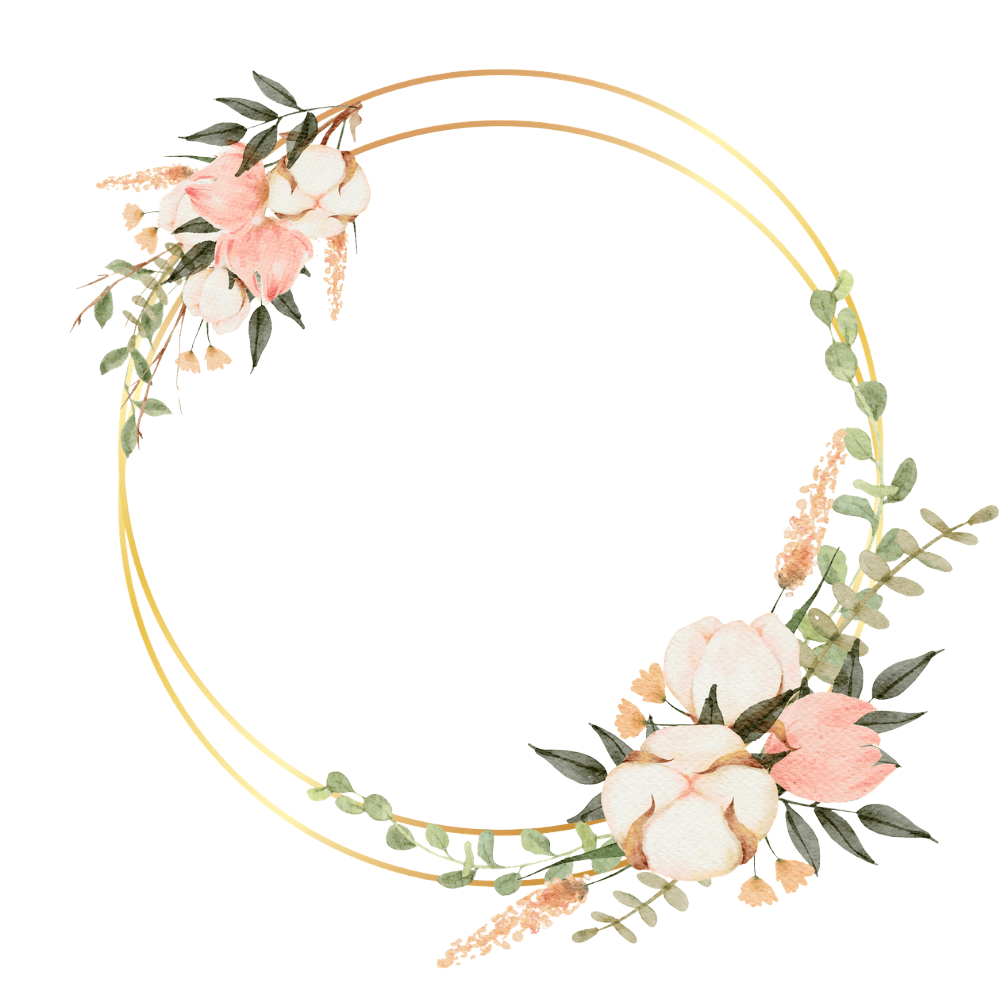
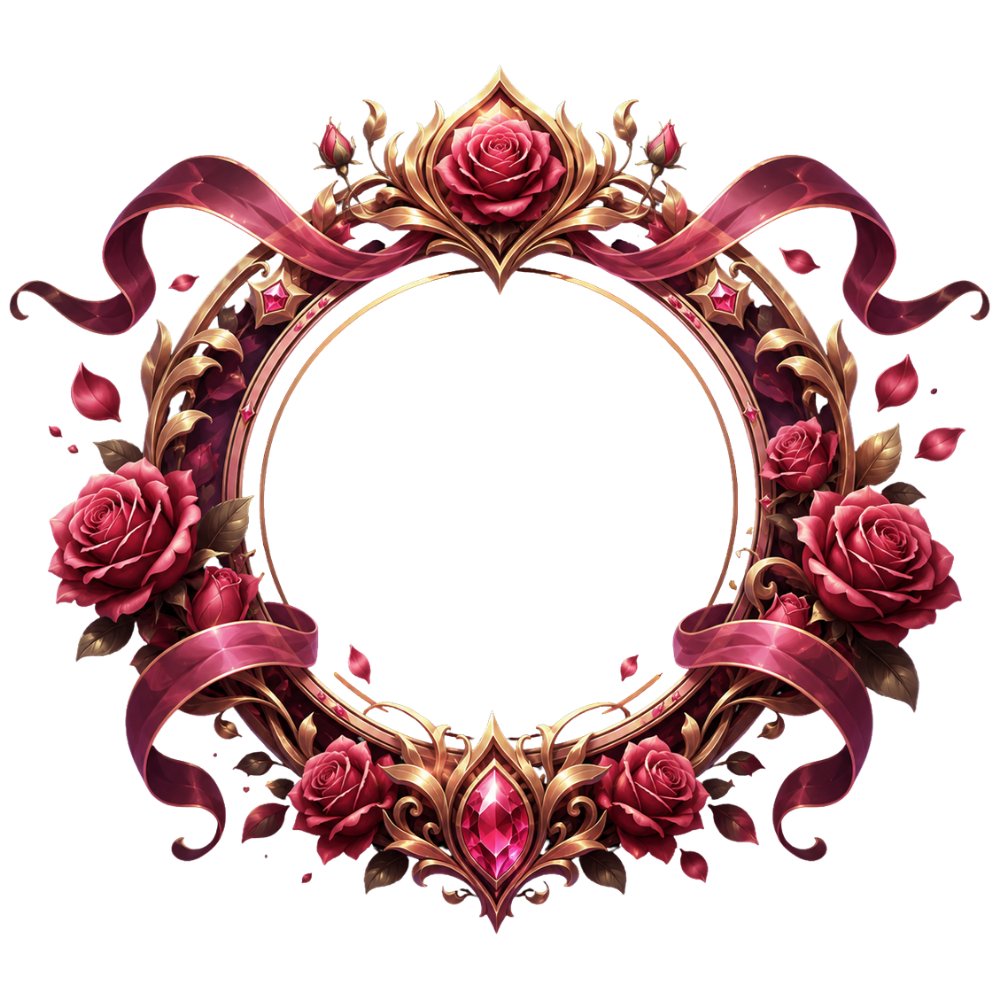
Update shop assets and component references
Replit-Commit-Author: Agent

diff --git a/src/shopVisuals.js b/src/shopVisuals.js
@@ -10,8 +10,8 @@ export const BINGKAI_VISUALS = {
   bingkai_void: { border: '#A855F7', style: 'solid', glow: true },
   bingkai_aurum_sovereign: { border: '#D4AF37', style: 'double', glow: true, luxury: 'aurum' },
   bingkai_void_monarch: { border: '#6366F1', style: 'solid', glow: true, luxury: 'void' },
-  bingkai_petal_rose: { image: '/petal-rose.png', border: '#F9A8D4', style: 'solid' },
-  bingkai_garuda: { image: '/garuda.gif', border: '#F59E0B', style: 'solid', glow: true },
+  bingkai_petal_rose: { image: '/petal-rose.png', border: '#F9A8D4', style: 'solid', spread: 0.25 },
+  bingkai_garuda: { image: '/garuda.gif', border: '#F59E0B', style: 'solid', glow: true, spread: 0.55 },
 }
 
 export const SPANDUK_VISUALS = {

diff --git a/src/screens/ShopScreen.jsx b/src/screens/ShopScreen.jsx
@@ -68,7 +68,7 @@ function ItemVisual({ item }) {
   if (item.kategori === 'bingkai') {
     const v = item.visual || {}
     if (v.image) {
-      const avatarSz = 58, sp = Math.round(avatarSz * 0.45), outer = avatarSz + sp * 2
+      const avatarSz = 58, sp = Math.round(avatarSz * (v.spread ?? 0.45)), outer = avatarSz + sp * 2
       return (
         <div style={{ position: 'relative', width: outer, height: outer, display: 'flex', alignItems: 'center', justifyContent: 'center' }}>
           <div style={{ width: avatarSz, height: avatarSz, borderRadius: '50%', background: '#1E2128', display: 'flex', alignItems: 'center', justifyContent: 'center', fontSize: 26, position: 'relative', zIndex: 1 }}>🧑🎓</div>

diff --git a/src/components/shared.jsx b/src/components/shared.jsx
@@ -52,7 +52,7 @@ export function UserAvatar({ user, size = 40, onClick, title }) {
   const useImageFrame = Boolean(bingkai?.image)
   // Spread: frame image extends 45% beyond the avatar on each side so it
   // visually wraps the photo. The outer wrapper grows to contain the full frame.
-  const spread = useImageFrame ? Math.round(size * 0.45) : 0
+  const spread = useImageFrame ? Math.round(size * (bingkai.spread ?? 0.45)) : 0
   const avatarDiv = (
     <div style={{
       width: size, height: size,
